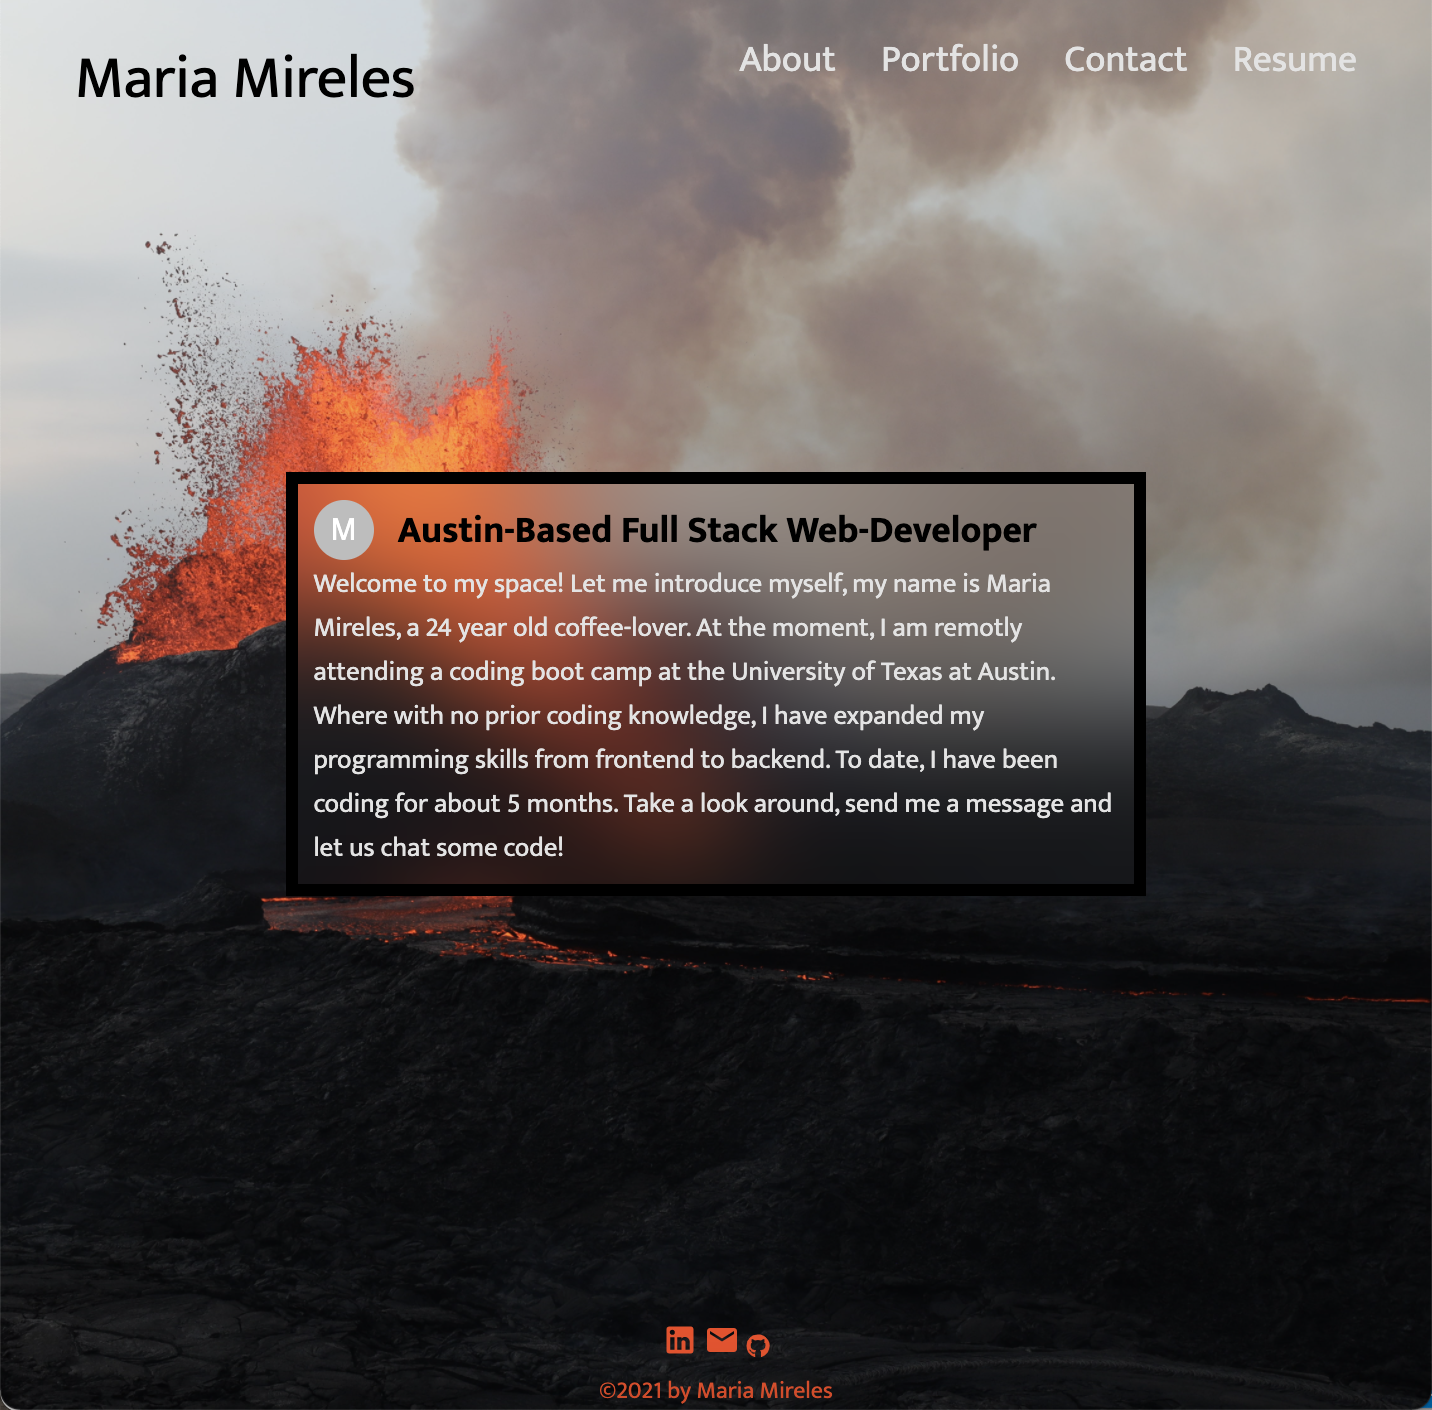
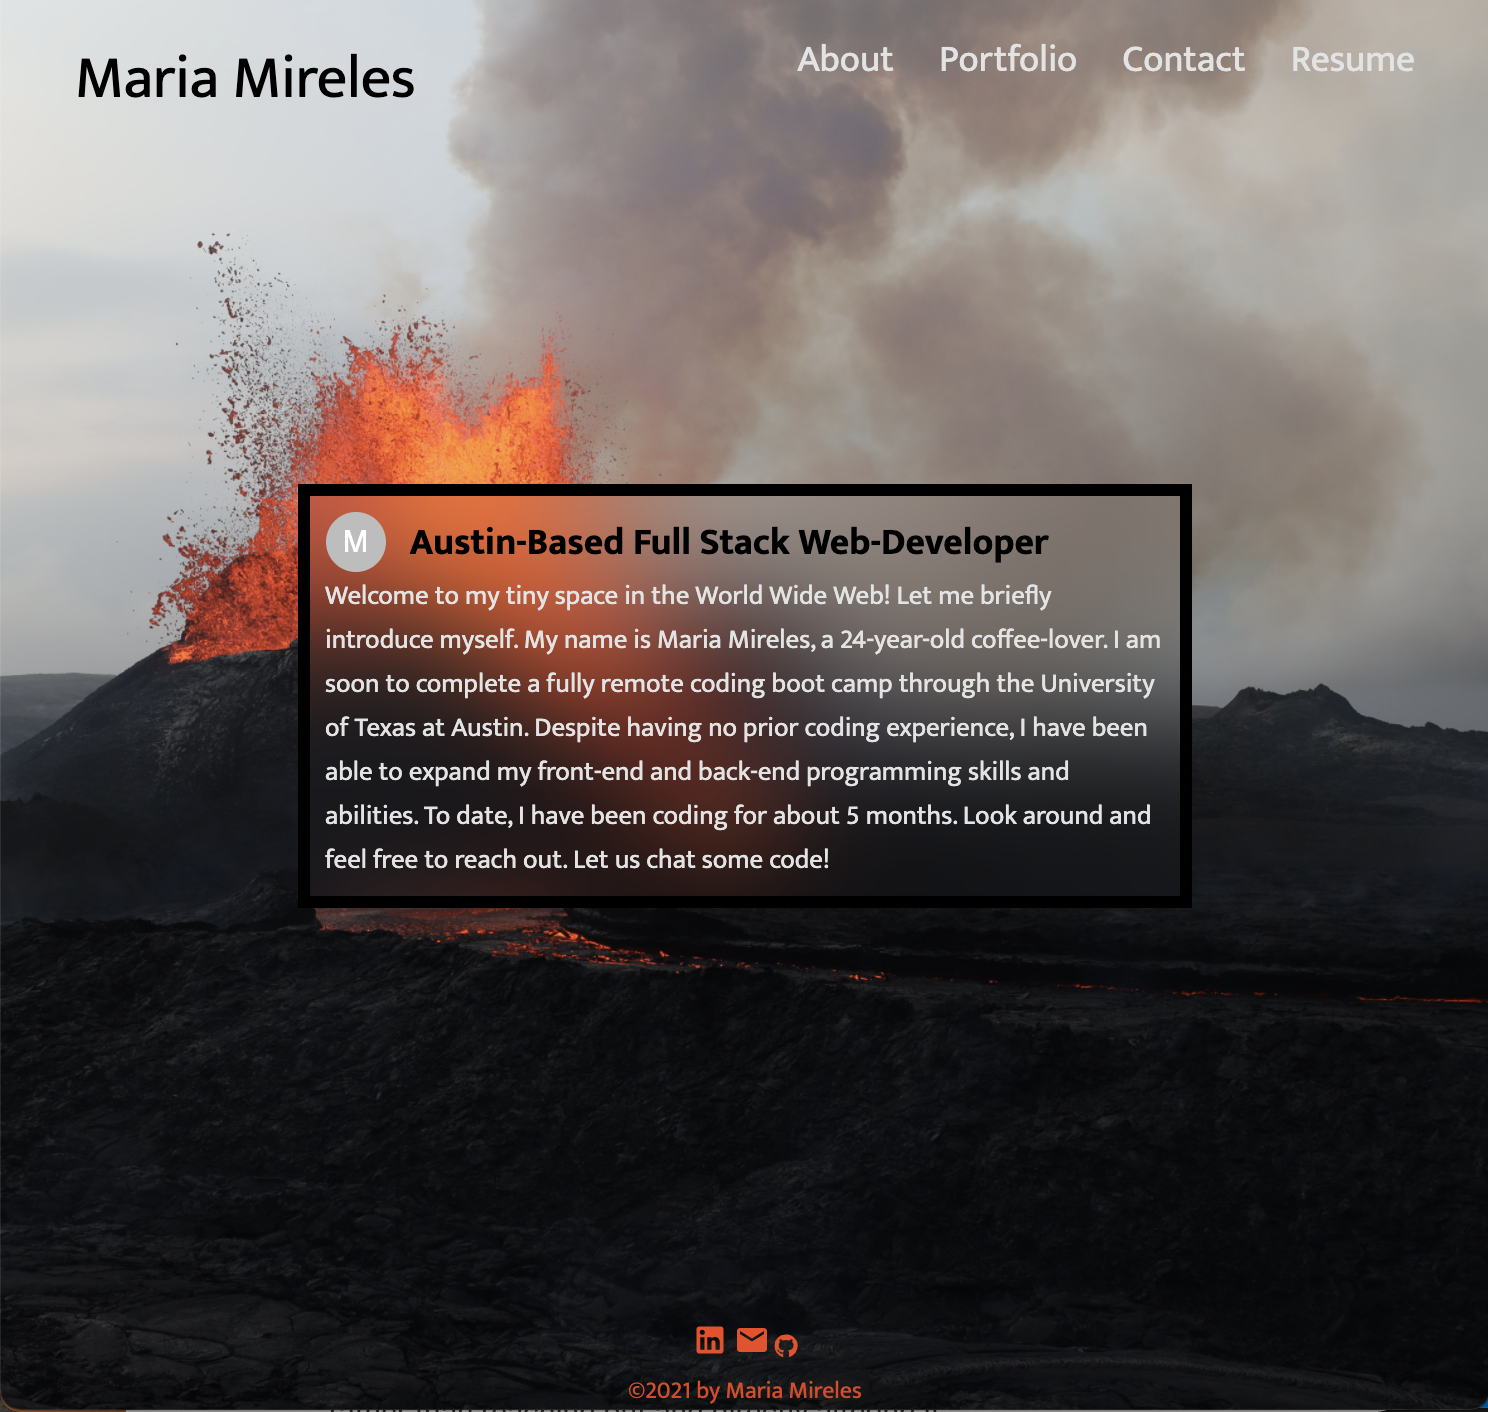
revised about me <p>

diff --git a/src/components/About/index.js b/src/components/About/index.js
@@ -12,11 +12,13 @@ function About() {
 
       <p>
         {" "}
-        Welcome to my space! Let me introduce myself, my name is Maria
-        Mireles, a 24 year old coffee-lover. At the moment, I am remotly attending a coding boot camp at the University of Texas at
-        Austin. Where with no prior coding knowledge, I have expanded my programming skills from frontend to backend.
-         To date, I have been coding for about 5 months. Take a look around, send me a message and 
-        let us chat some code! {" "}
+        Welcome to my tiny space in the World Wide Web! Let me briefly introduce
+        myself. My name is Maria Mireles, a 24-year-old coffee-lover. I am soon
+        to complete a fully remote coding boot camp through the University of
+        Texas at Austin. Despite having no prior coding experience, I have been
+        able to expand my front-end and back-end programming skills
+        and abilities. To date, I have been coding for about 5 months. 
+        Look around and feel free to reach out. Let us chat some code!{" "}
       </p>
     </section>
   );

diff --git a/src/components/Resume/index.js b/src/components/Resume/index.js
@@ -19,10 +19,11 @@ function Resume() {
         <h3>Backend:</h3>
         <li>MySQL </li>
         <li>MongoDB </li>
-        <li>Express </li>
-        <li>Node </li>
-        <li>Handlebars </li>
-        <li>Webpack </li>
+        <li>Express.js </li>
+        <li>Node.js </li>
+        <li>Handlebars.js </li>
+        <li>GraphQL </li>
+
       </div>
       <a style={{ textDecoration: 'none' }} href='../../assets/resume/resume.pdf' download> 
       <h2 className="download"> Click to download resume</h2>

diff --git a/src/components/PhotoList/index.js b/src/components/PhotoList/index.js
@@ -28,9 +28,9 @@ function PhotoList(challenge) {
 
   const currentPhotos = photos.filter((photo) => photo.challenge === challenge);
 
-  const setCurrentPhoto = (image, i) => {
-    ({ ...image, index: i });
-  };
+  // const setCurrentPhoto = (image, i) => {
+  //   ({ ...image, index: i });
+  // };
 
   return (
     <div>
